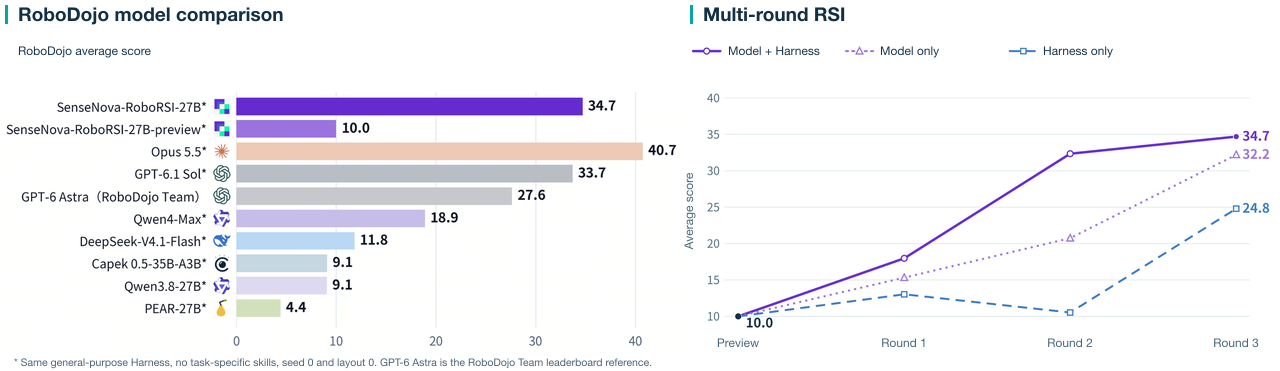
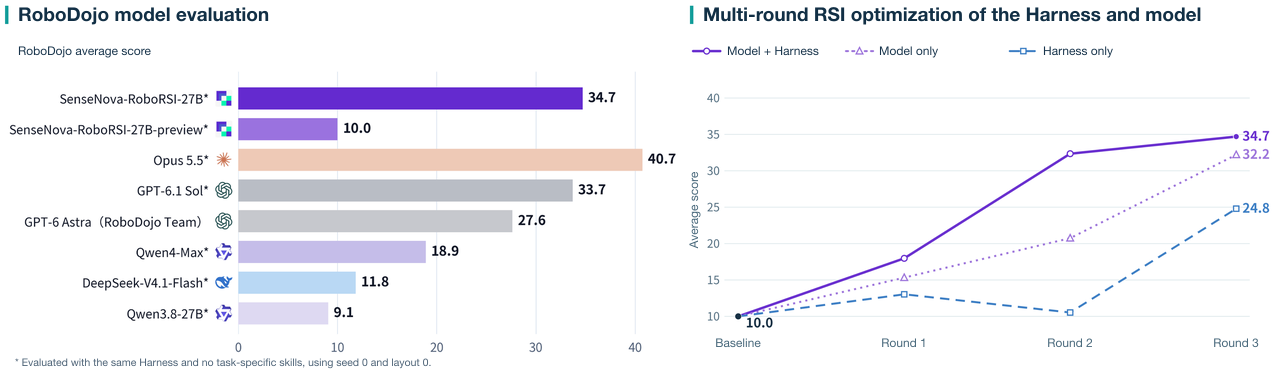
Update the RoboDojo comparison to eight models in both languages

diff --git a/docs/sensenova-roborsi-27b.md b/docs/sensenova-roborsi-27b.md
@@ -12,9 +12,9 @@ SenseNova-RoboRSI-27B is a vision-language model for robot manipulation. It can 
 
 ### RoboDojo simulation
 
-SenseNova-RoboRSI-27B averages **34.7** on RoboDojo, up from **10.0** for Preview. We evaluated nine models with the same general-purpose Harness and no task-specific skills.
+SenseNova-RoboRSI-27B averages **34.7** on RoboDojo, up from **10.0** for Preview. We evaluated seven of the models shown using the same general-purpose Harness and no task-specific skills.
 
-![RoboDojo average scores for ten models and scores across three rounds of RSI](../assets/roborsi-27b/en/robodojo-results.png)
+![RoboDojo average scores for eight models and scores across three rounds of RSI](../assets/roborsi-27b/en/robodojo-results.png)
 
 *Figure 2. In the left panel, stars mark our evaluations at seed 0, layout 0. The GPT-6 Astra score of 27.6 comes from the [RoboDojo Team’s leaderboard](https://robodojo-benchmark.com/leaderboard#agent). In the right panel, updating the model and Harness together outperformed updating either alone in all three RSI rounds.*
 

diff --git a/README.md b/README.md
@@ -230,11 +230,9 @@ Reference results: [official RoboCasa leaderboard](https://robocasa.ai/leaderboa
 | Qwen4-Max | 18.9 |
 | DeepSeek-V4.1-Flash | 11.8 |
 | SenseNova-RoboRSI-27B-Preview | 10.0 |
-| Capek 0.5-35B-A3B | 9.1 |
 | Qwen3.8-27B | 9.1 |
-| PEAR-27B | 4.4 |
 
-The GPT-6 Astra score comes from the [official RoboDojo Agent leaderboard](https://robodojo-benchmark.com/leaderboard#agent). We evaluated the other nine models at seed 0, layout 0 using the same general-purpose Harness without task-specific skills.
+The GPT-6 Astra score comes from the [official RoboDojo Agent leaderboard](https://robodojo-benchmark.com/leaderboard#agent). We evaluated the other seven models at seed 0, layout 0 using the same general-purpose Harness without task-specific skills.
 
 ### Physical robots: Piper and Piper X
 

diff --git a/README.zh-CN.md b/README.zh-CN.md
@@ -213,11 +213,9 @@ ICL 经验包统一托管在
 | Qwen4-Max | 18.9 |
 | DeepSeek-V4.1-Flash | 11.8 |
 | SenseNova-RoboRSI-27B-Preview | 10.0 |
-| Capek 0.5-35B-A3B | 9.1 |
 | Qwen3.8-27B | 9.1 |
-| PEAR-27B | 4.4 |
 
-GPT-6 Astra 的成绩来自 [RoboDojo 官方 Agent 榜单](https://robodojo-benchmark.com/leaderboard#agent)。其余九个模型均在 seed 0、layout 0 下使用同一套通用 Harness 评测，未配置任务专属技能。
+GPT-6 Astra 的成绩来自 [RoboDojo 官方 Agent 榜单](https://robodojo-benchmark.com/leaderboard#agent)。其余七个模型均在 seed 0、layout 0 下使用同一套通用 Harness 评测，未配置任务专属技能。
 
 ### Piper 与 Piper X 真机
 
